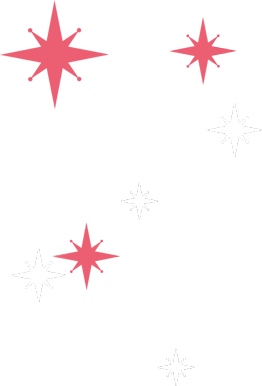
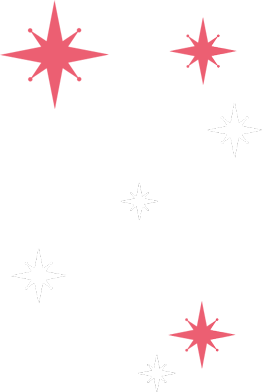
bug fix 2

diff --git a/static/css/style.css b/static/css/style.css
@@ -430,11 +430,11 @@ a:focus {
     margin: auto;
 }
 .mag-nav-tip-img2  {
-    width: 73.191489361702%;
+    width: 78.807947019868%;
     margin: auto;
 }
 .mag-nav-tip-img3  {
-    width: 73.191489361702%;
+    width: 50.331125827815%;
     margin: auto;
 }
 
@@ -525,7 +525,7 @@ a:focus {
     position: absolute;
     bottom: 0;
     max-width: 351px;
-    left: 16.6%;
+    left: 70.6%;
     vertical-align: top;
 }
 
